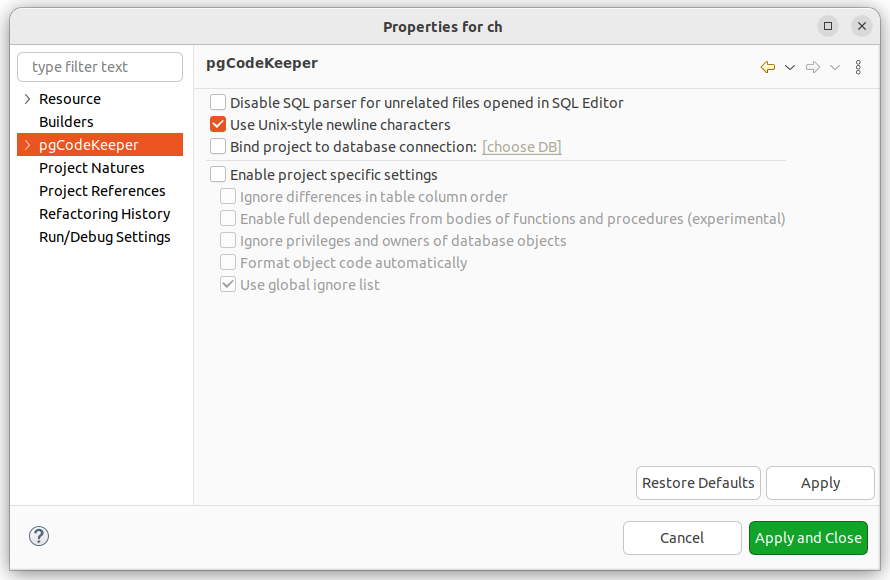
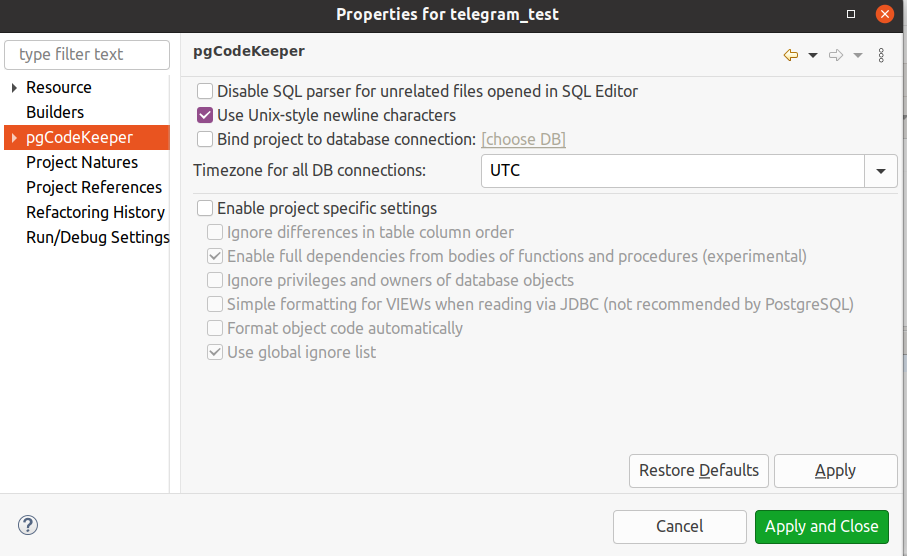
updated by feedback

Changed region(s): [[0.0, 0.0, 1.0, 1.0]]

diff --git a/docs/preferences.rst b/docs/preferences.rst
@@ -62,7 +62,7 @@
 - **Print creation of CONSTRAINT and IDENTITY in DO block (PostgreSQL only) / Печатать создание CONSTRAINT и IDENTITY в DO блоке (только для PostgreSQL)** - позволяет обернуть создание CONSTARAINT и IDENTITY в блок DO (только для PostgreSQL)
 - **Print DROP before CREATE statement / Печатать DROP перед CREATE конструкцией** – позволяет добавить конструкцию DROP перед CREATE конструкцией в скрипте миграции.
 - **Create a script only from objects selected in the comparison panel / Создавать скрипт только из объектов, выбранных в панели сравнения** – позволяет исключить из скрипта объекты, которые не были выбраны явно.
-- **Print comments at the end of the script / Печатать комментарии в конце скрипта** - переносит добавление всех коментариев в конец скрипта миграции.
+- **Print comments at the end of the script / Печатать комментарии в конце скрипта** - переносит добавление всех комментариев в конец скрипта миграции.
 - **Migrate data when re-creating tables / Мигрировать данные при пересоздании таблиц** - позволяет сохранить данные при пересоздании таблицы. При пересоздании существующая таблица переименовывается и создается новая, данные из исходной переливаются в новую. Старая переименованная таблица удаляется. Состояние IDENTITY SEQUENCE переносится из старой таблицы в новую. Обычные SEQUENCE не поддерживаются.
 - **Migration command / Команда миграции** - позволяет использовать другую утилиту или параметры запуска при применении скрипта наката к базе данных.
 
@@ -164,7 +164,7 @@
 
 .. image:: ../images/db_store.png
 
-Для добавления хранилища нажать кнопку |add_obj|. Откроется диалог **DB credentials** (Данные подключения к БД), в котором нужно указать параметры данных подключения: хост, порт, имя БД, пользователь, пароль, группа БД, тип соединения, а также включить запрет на запись в БД и выбрать тип БД (PostgreSQL(длф PostgreSQL bkb Greenplum), MS SQL или ClickHouse). Для MS SQL можно указать домен. Если выбран тип бд MS SQL, то по умолчанию выставлен параметр **trust MS SQL сertificate / доверять сертификату MS SQL**, который можно отключить. Название записи можно указать вручную, для этого нужно отключить опцию **Auto-generate / Автогенерация**.
+Для добавления хранилища нажать кнопку |add_obj|. Откроется диалог **DB credentials** (Данные подключения к БД), в котором нужно указать параметры данных подключения: хост, порт, имя БД, пользователь, пароль, группа БД, тип соединения, а также включить запрет на запись в БД и выбрать тип БД PostgreSQL (для PostgreSQL или Greenplum), MS SQL или ClickHouse. Для MS SQL можно указать домен. Если выбран тип бд MS SQL, то по умолчанию выставлен параметр **trust MS SQL сertificate / доверять сертификату MS SQL**, который можно отключить. Название записи можно указать вручную, для этого нужно отключить опцию **Auto-generate / Автогенерация**.
 
 .. note:: pgCodeKeeper поддерживает работу с `pgpass файлом <https://www.postgresql.org/docs/current/libpq-pgpass.html>`_. Для этого поле с паролем нужно оставить пустым.
 

diff --git a/docs/properties.rst b/docs/properties.rst
@@ -25,6 +25,8 @@
 
   - **Enable full dependencies from bodies of functions and procedures (experimental) / Учитывать все зависимости из тел функций и процедур (экспериментально)** - позволяет искать внутри тел функций и процедур зависимости к другим функциям и процедурам.
 
+  - **Simple formatting for VIEWs when reading via JDBC (not recommended by PostgreSQL) / Упрощенное форматирование представлений при чтении через JDBC (не рекомендовано PostgreSQL)** - позволяет использовать упрощенное форматирование представлений, убирая лишние скобки в выражениях. Данный формат может не поддерживаться в будущих версиях PostgeSQL.
+
   - **Format object code automatically / Форматировать код объектов автоматически** - позволяет отображать и сохранять отформатированный код функций на языках plpgsql и sql согласно настройкам форматирования **SQL Editor/Редактор SQL**. Подробнее про настройки форматирования кода в :ref:`format`.
 
   - **Use global ignore list / Использовать глобальный список игнорирования** - позволяет включить или отключить использование глобального списка различий со страницы настроек :ref:`ignoredObjects`.
